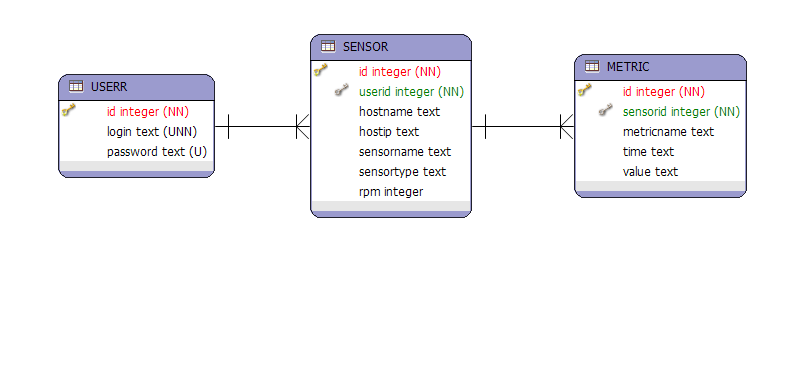
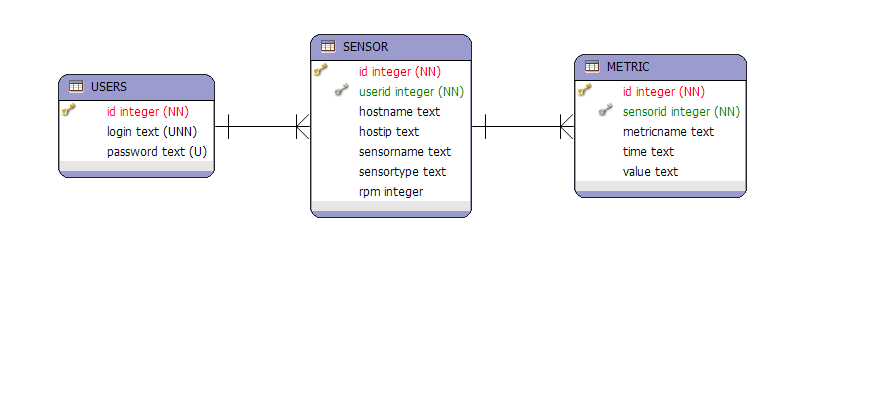
small fix in database.

Changed region(s): [[0.0607, 0.0866, 0.9709, 0.5774]]

diff --git a/src/monitor/DataBase.java b/src/monitor/DataBase.java
@@ -49,7 +49,7 @@ public class DataBase {
      * @return true if no error occurs.
      */
     private boolean createTables()  {
-    	String createUser = "CREATE TABLE IF NOT EXISTS userr ("
+    	String createUser = "CREATE TABLE IF NOT EXISTS users ("
     			+ "id integer NOT NULL, login text NOT NULL UNIQUE, password text UNIQUE, PRIMARY KEY (id) )";
 //        String createHost = "CREATE TABLE IF NOT EXISTS host ("
 //        		+ "id integer NOT NULL PRIMARY KEY AUTOINCREMENT, hostname text UNIQUE,	ip text)";
@@ -59,7 +59,7 @@ public class DataBase {
 //        		+ "FOREIGN KEY (owner) REFERENCES USER (login) )";
         String createSensor = "CREATE TABLE IF NOT EXISTS sensor (id integer NOT NULL, userid integer NOT NULL,"
         		+ "hostname text, hostip text, sensorname text, sensortype text, rpm integer,"
-        		+ "PRIMARY KEY (id), FOREIGN KEY (userid) REFERENCES USERR (id) )";
+        		+ "PRIMARY KEY (id), FOREIGN KEY (userid) REFERENCES USERs (id) )";
 //        String createMetric = "CREATE TABLE IF NOT EXISTS metric ("
 //        		+ "id integer NOT NULL PRIMARY KEY AUTOINCREMENT, name text)";     
 //        String createMeasurement = "CREATE TABLE IF NOT EXISTS measurement ("
@@ -92,7 +92,7 @@ public class DataBase {
     public void addUser(User user){
     	try {
         	Statement stat = conn.createStatement();
-        	stat.executeUpdate("INSERT INTO Userr (login,password) VALUES ('"+user.login+"','"+user.password+"')");
+        	stat.executeUpdate("INSERT INTO Users (login,password) VALUES ('"+user.login+"','"+user.password+"')");
             stat.close();
         } catch (SQLException e) {
         	System.err.println("add User err: " + e.getMessage());
@@ -109,7 +109,7 @@ public class DataBase {
     	List<User> users = new LinkedList<User>();
         try {
         	Statement stat = conn.createStatement();
-            ResultSet result = stat.executeQuery("SELECT * FROM userr");
+            ResultSet result = stat.executeQuery("SELECT * FROM users");
             int id;
             String login, password;
             while(result.next()) {
@@ -135,7 +135,7 @@ public class DataBase {
     	User user = null;
     	try {
         	Statement stat = conn.createStatement();
-            ResultSet result = stat.executeQuery("SELECT * FROM userr where id="+userID);
+            ResultSet result = stat.executeQuery("SELECT * FROM users where id="+userID);
             String login, password;
             if(result.next()) {
                 user = new User(userID, login = result.getString("login"), password = result.getString("password"));            
